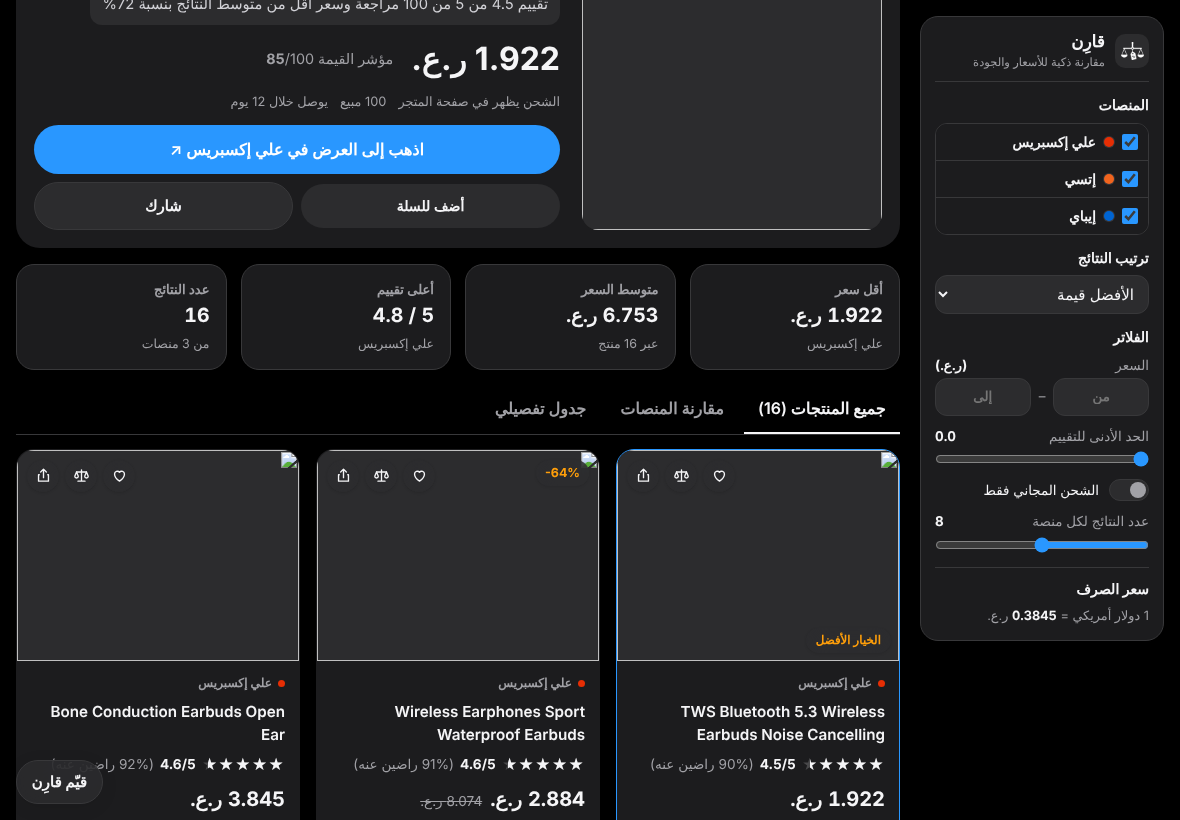
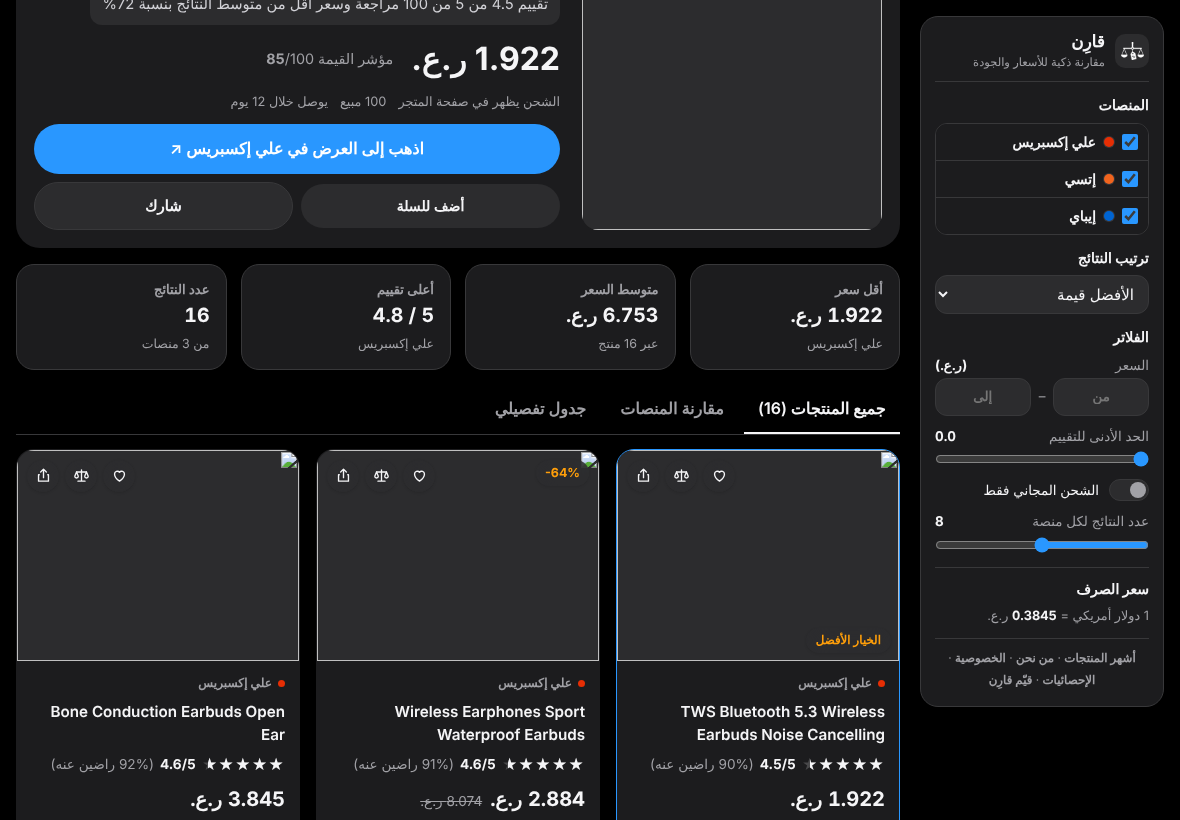
iPad: clear the bottom area (links moved to sidebar, legal notes only under results, no floating rate button) and enlarge home elements
Claude-Session: https://claude.ai/code/session_01JPcJJz9RvUid6aaScUD6z8

Changed region(s): [[0.7627, 0.7622, 1.0, 0.8841], [0.1525, 0.1829, 0.3356, 0.2134], [0.0305, 0.9146, 0.0915, 0.9756]]

diff --git a/index.html b/index.html
@@ -478,6 +478,40 @@ table.dt { min-width: 0; font-size: .76rem; }
 .btn-copy { display: inline-block; text-decoration: none; margin: 10px 0 0 6px; border: 0; border-radius: 999px; padding: 10px 18px; font: inherit; font-weight: 600; color: #fff; background: var(--accent); cursor: pointer; }
 @keyframes ibIn { from { opacity: 0; transform: translate(-50%, 24px); } to { opacity: 1; transform: translate(-50%, 0); } }
 .footer .etsy-note { font-size: 0.62rem; opacity: 0.55; }
+.foot-legal { display: flex; flex-direction: column; gap: 6px; }
+.pre-search .foot-legal { display: none; }
+#status:empty, #results:empty { display: none; }
+.side-links { font-size: 0.74rem; line-height: 1.9; color: var(--muted); text-align: center; padding-top: 8px; border-top: 1px solid var(--line); }
+.side-links a { color: var(--muted); text-decoration: none; font-weight: 600; white-space: nowrap; }
+.side-links a:hover { color: var(--fg); text-decoration: underline; }
+.dock .rate-fab, .dock.only-rate { display: none; }
+@media (min-width: 921px) {
+  .foot-links { display: none; }
+  .pre-search .footer { display: none; }
+  /* الآيباد والكمبيوتر: عناصر أكبر تعبّي الشاشة */
+  .hero { padding-top: 26px; }
+  .hero h1 { font-size: 3.6rem; }
+  .hero p { font-size: 1.3rem; margin-bottom: 10px; }
+  .search { padding: 7px; }
+  .search input { font-size: 1.15rem; padding: 13px 18px; }
+  .search .btn-primary { height: 52px; min-width: 52px; padding: 0 26px; font-size: 1.08rem; }
+  .img-btn { width: 50px; height: 50px; }
+  .img-btn svg { width: 24px; height: 24px; }
+  .src-line { font-size: 0.95rem; }
+  .tools-row { gap: 14px; }
+  .tools-row .tool-btn { padding: 24px 24px 22px; border-radius: 22px; gap: 5px; }
+  .tools-row .tool-btn svg { width: 38px; height: 38px; margin-bottom: 8px; }
+  .tools-row .tool-btn span { font-size: 1.25rem; }
+  .tools-row .tool-btn small { font-size: 0.95rem; }
+  .follow { border-radius: 22px; }
+  .follow-list a { padding: 20px 22px; font-size: 1.1rem; gap: 14px; }
+  .follow-list a svg { width: 28px; height: 28px; }
+  .mini-sel select { font-size: 0.95rem; padding: 9px 14px 9px 30px; }
+  html[dir="ltr"] .mini-sel select { padding: 9px 30px 9px 14px; }
+  .theme-btn { width: 44px; height: 44px; }
+  .theme-btn svg { width: 22px; height: 22px; }
+  .pre-search .main { gap: 22px; }
+}
 #installSteps ol { margin: 8px 0 0; padding-inline-start: 22px; line-height: 2; }
 
 /* ---------- السلة المتعددة ---------- */
@@ -730,6 +764,7 @@ table.dt { min-width: 0; font-size: .76rem; }
       <h3>سعر الصرف</h3>
       <div class="rate-box" id="rateBox"></div>
     </section>
+    <nav class="side-links"><a href="searches.html">أشهر المنتجات</a> · <a href="about.html">من نحن</a> · <a href="privacy.html">الخصوصية</a> · <a href="stats.html">الإحصائيات</a> · <a href="#" class="rate-link">قيّم قارِن</a></nav>
   </aside>
   <div class="scrim" id="scrim"></div>
 
@@ -791,9 +826,9 @@ table.dt { min-width: 0; font-size: .76rem; }
     </section>
 
     <footer class="footer">
-      <nav class="foot-links"><a href="coupons.html">الكوبونات</a> · <a href="searches.html">أشهر المنتجات</a> · <a href="about.html">من نحن</a> · <a href="privacy.html">الخصوصية</a> · <a href="stats.html">الإحصائيات</a> · <a href="#" id="installLink">ثبّت التطبيق</a> · <a href="https://whatsapp.com/channel/0029Vb9jfF32ER6lZlW2Qn2F" target="_blank" rel="noopener noreferrer">قناة الواتساب</a> · <a href="https://www.instagram.com/qarin_app/" target="_blank" rel="noopener noreferrer">انستقرام</a> · <a href="#" id="rateLink">قيّم قارِن</a></nav>
-      <p class="foot-note"><span>قارِن أداة مقارنة مستقلة ولا ترتبط رسميًا بعلي إكسبريس أو إيباي أو إتسي.</span> <span>الأسعار تتحدّث من المتاجر مباشرة، والسعر النهائي في المتجر قد يختلف بسبب الشحن والضرائب.</span> <span>بعض روابط المتاجر روابط تسويق بالعمولة: يعني ممكن «قارِن» ياخذ عمولة صغيرة من المتجر، <span>بدون ما يزيد السعر عليك</span>.</span></p>
-      <p class="foot-note etsy-note" dir="ltr" lang="en">The term 'Etsy' is a trademark of Etsy, Inc. This application uses the Etsy API but is not endorsed or certified by Etsy, Inc.</p>
+      <nav class="foot-links"><a href="searches.html">أشهر المنتجات</a> · <a href="about.html">من نحن</a> · <a href="privacy.html">الخصوصية</a> · <a href="stats.html">الإحصائيات</a> · <a href="#" class="rate-link">قيّم قارِن</a></nav>
+      <div class="foot-legal"><p class="foot-note"><span>قارِن أداة مقارنة مستقلة ولا ترتبط رسميًا بعلي إكسبريس أو إيباي أو إتسي.</span> <span>الأسعار تتحدّث من المتاجر مباشرة، والسعر النهائي في المتجر قد يختلف بسبب الشحن والضرائب.</span> <span>بعض روابط المتاجر روابط تسويق بالعمولة: يعني ممكن «قارِن» ياخذ عمولة صغيرة من المتجر، <span>بدون ما يزيد السعر عليك</span>.</span></p>
+      <p class="foot-note etsy-note" dir="ltr" lang="en">The term 'Etsy' is a trademark of Etsy, Inc. This application uses the Etsy API but is not endorsed or certified by Etsy, Inc.</p></div>
     </footer>
   </main>
 </div>
@@ -3313,8 +3348,7 @@ table.dt { min-width: 0; font-size: .76rem; }
     });
     if (store.get('qarin.rated', false)) $('rateFab').textContent = '✓ شكرًا لتقييمك';
     $('rateFab').addEventListener('click', () => { $('rateMsg').textContent = ''; openModal('rateModal'); });
-    $('installLink').addEventListener('click', e => { e.preventDefault(); openInstall(); });
-    $('rateLink').addEventListener('click', e => { e.preventDefault(); $('rateMsg').textContent = ''; openModal('rateModal'); });
+    document.querySelectorAll('.rate-link').forEach(a => a.addEventListener('click', e => { e.preventDefault(); $('rateMsg').textContent = ''; openModal('rateModal'); }));
     $('installHero').addEventListener('click', e => { e.preventDefault(); openInstall(); });
     if (isStandalone()) $('installHero').hidden = true;
     $('instBarGo').addEventListener('click', openInstall);
